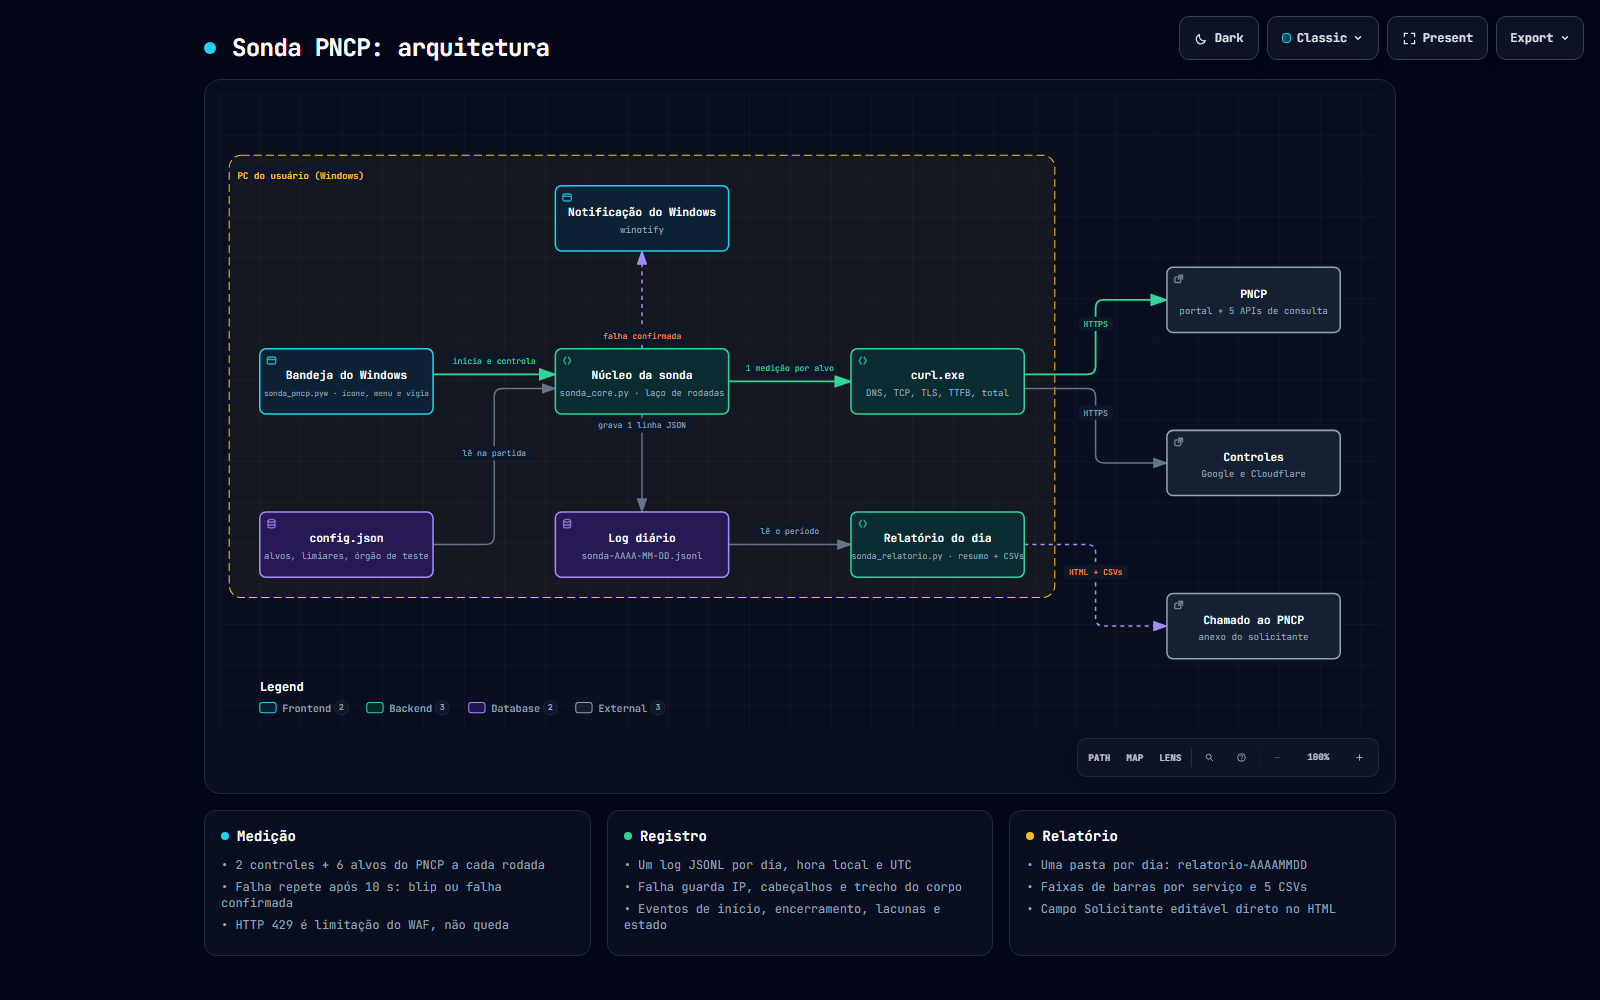
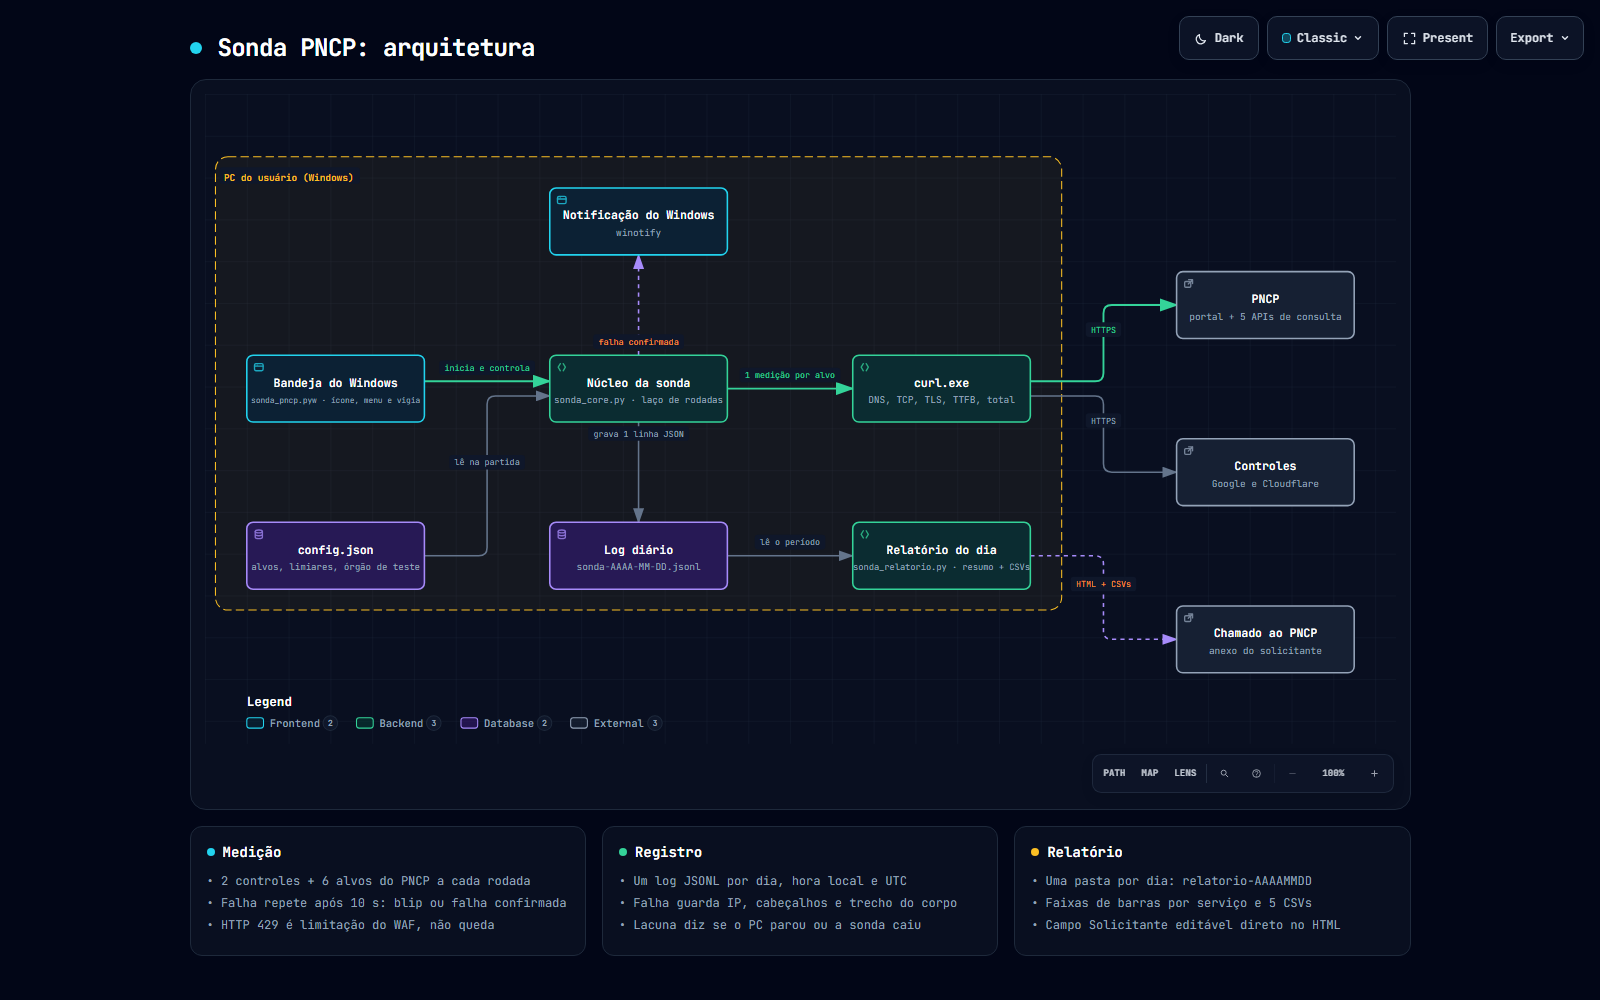
docs: diagrama, README e LEIA-ME citam a causa da lacuna (1.6.0)

diff --git a/docs/arquitetura.html b/docs/arquitetura.html
@@ -5562,7 +5562,7 @@ OTHER DEALINGS IN THE FONT SOFTWARE.
         <ul>
           <li>&bull; Um log JSONL por dia, hora local e UTC</li>
           <li>&bull; Falha guarda IP, cabeçalhos e trecho do corpo</li>
-          <li>&bull; Eventos de início, encerramento, lacunas e estado</li>
+          <li>&bull; Lacuna diz se o PC parou ou a sonda caiu</li>
         </ul>
       </div>
 

diff --git a/README.md b/README.md
@@ -113,8 +113,9 @@ classificação de erros, máquina de estados, lacunas, relatório).
   rodada é "sem rede" e os alvos do PNCP nem são medidos: falha da sua
   conexão não vira queda do PNCP.
 - **Ausência de registro não é disponibilidade.** PC desligado ou
-  suspenso vira lacuna explícita no relatório, com o motivo quando dá pra
-  saber.
+  suspenso vira lacuna explícita no relatório, com a causa provável: PC
+  desligado ou suspenso (inclusive o "Desligar" com Inicialização Rápida),
+  PC reiniciado ou sonda parada com o PC ligado.
 - **Evidência completa na falha.** Falha grava IP, cabeçalhos completos,
   trecho do corpo e o horário do erro segundo o próprio PNCP; sucesso
   grava só o hash do corpo.
